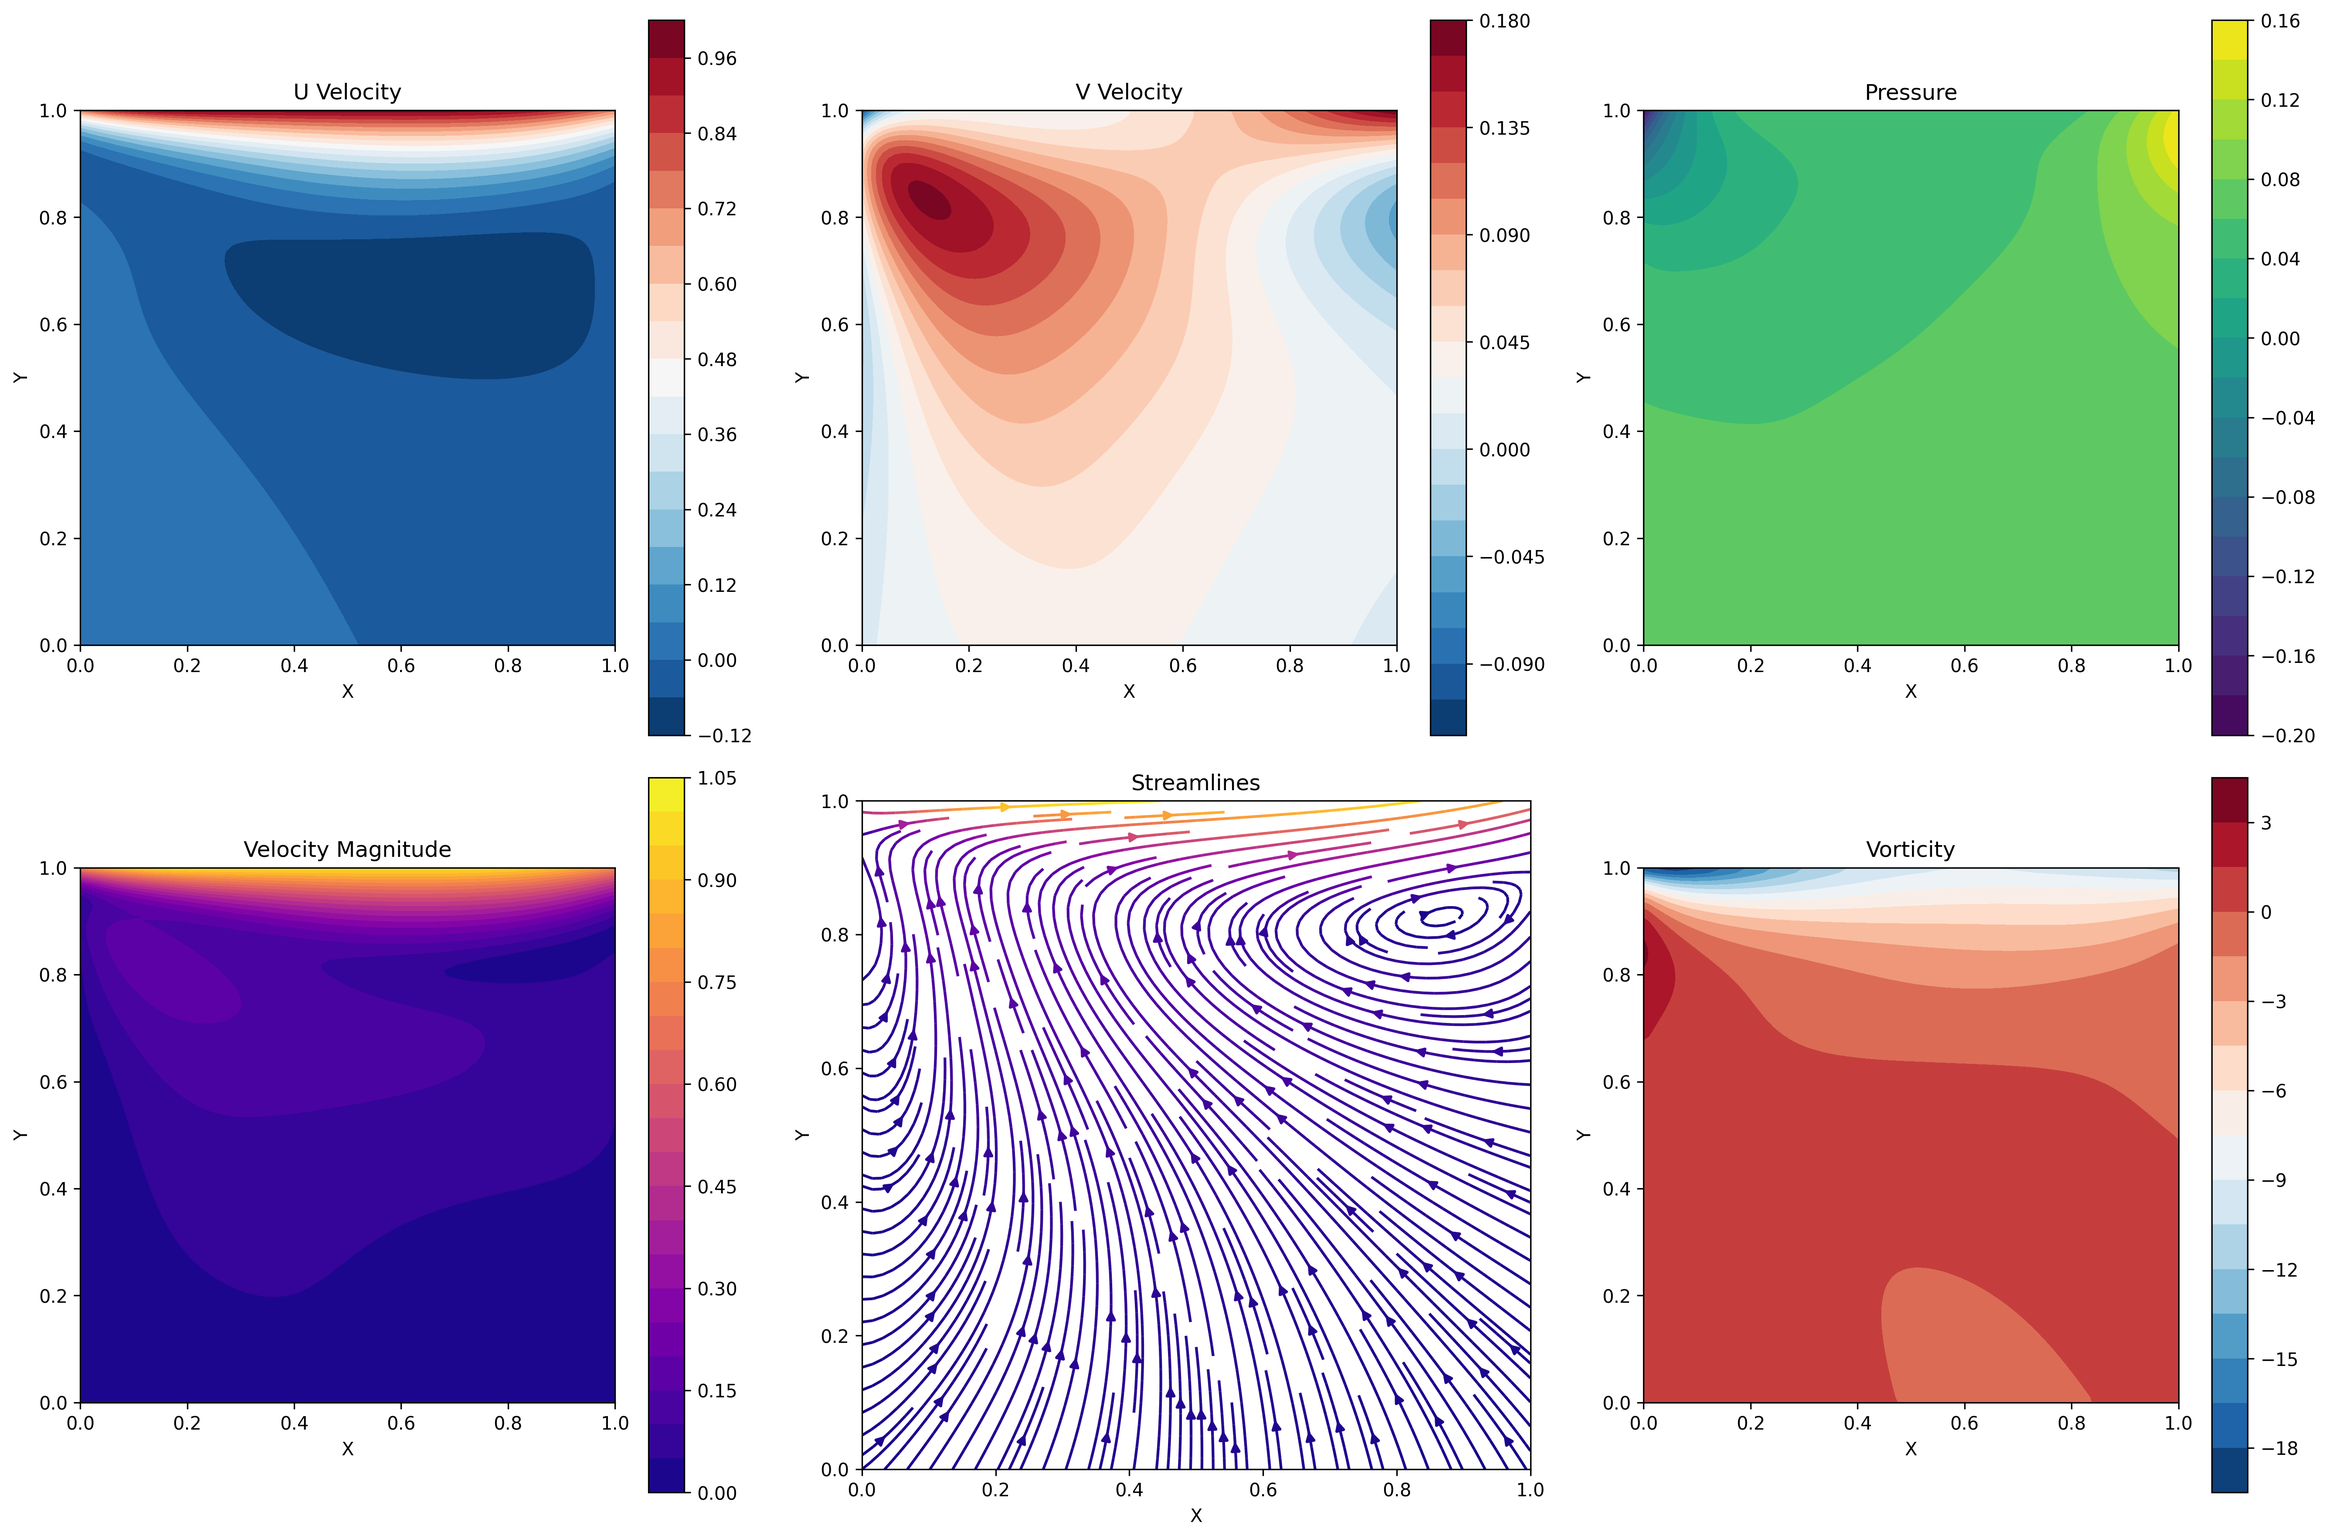
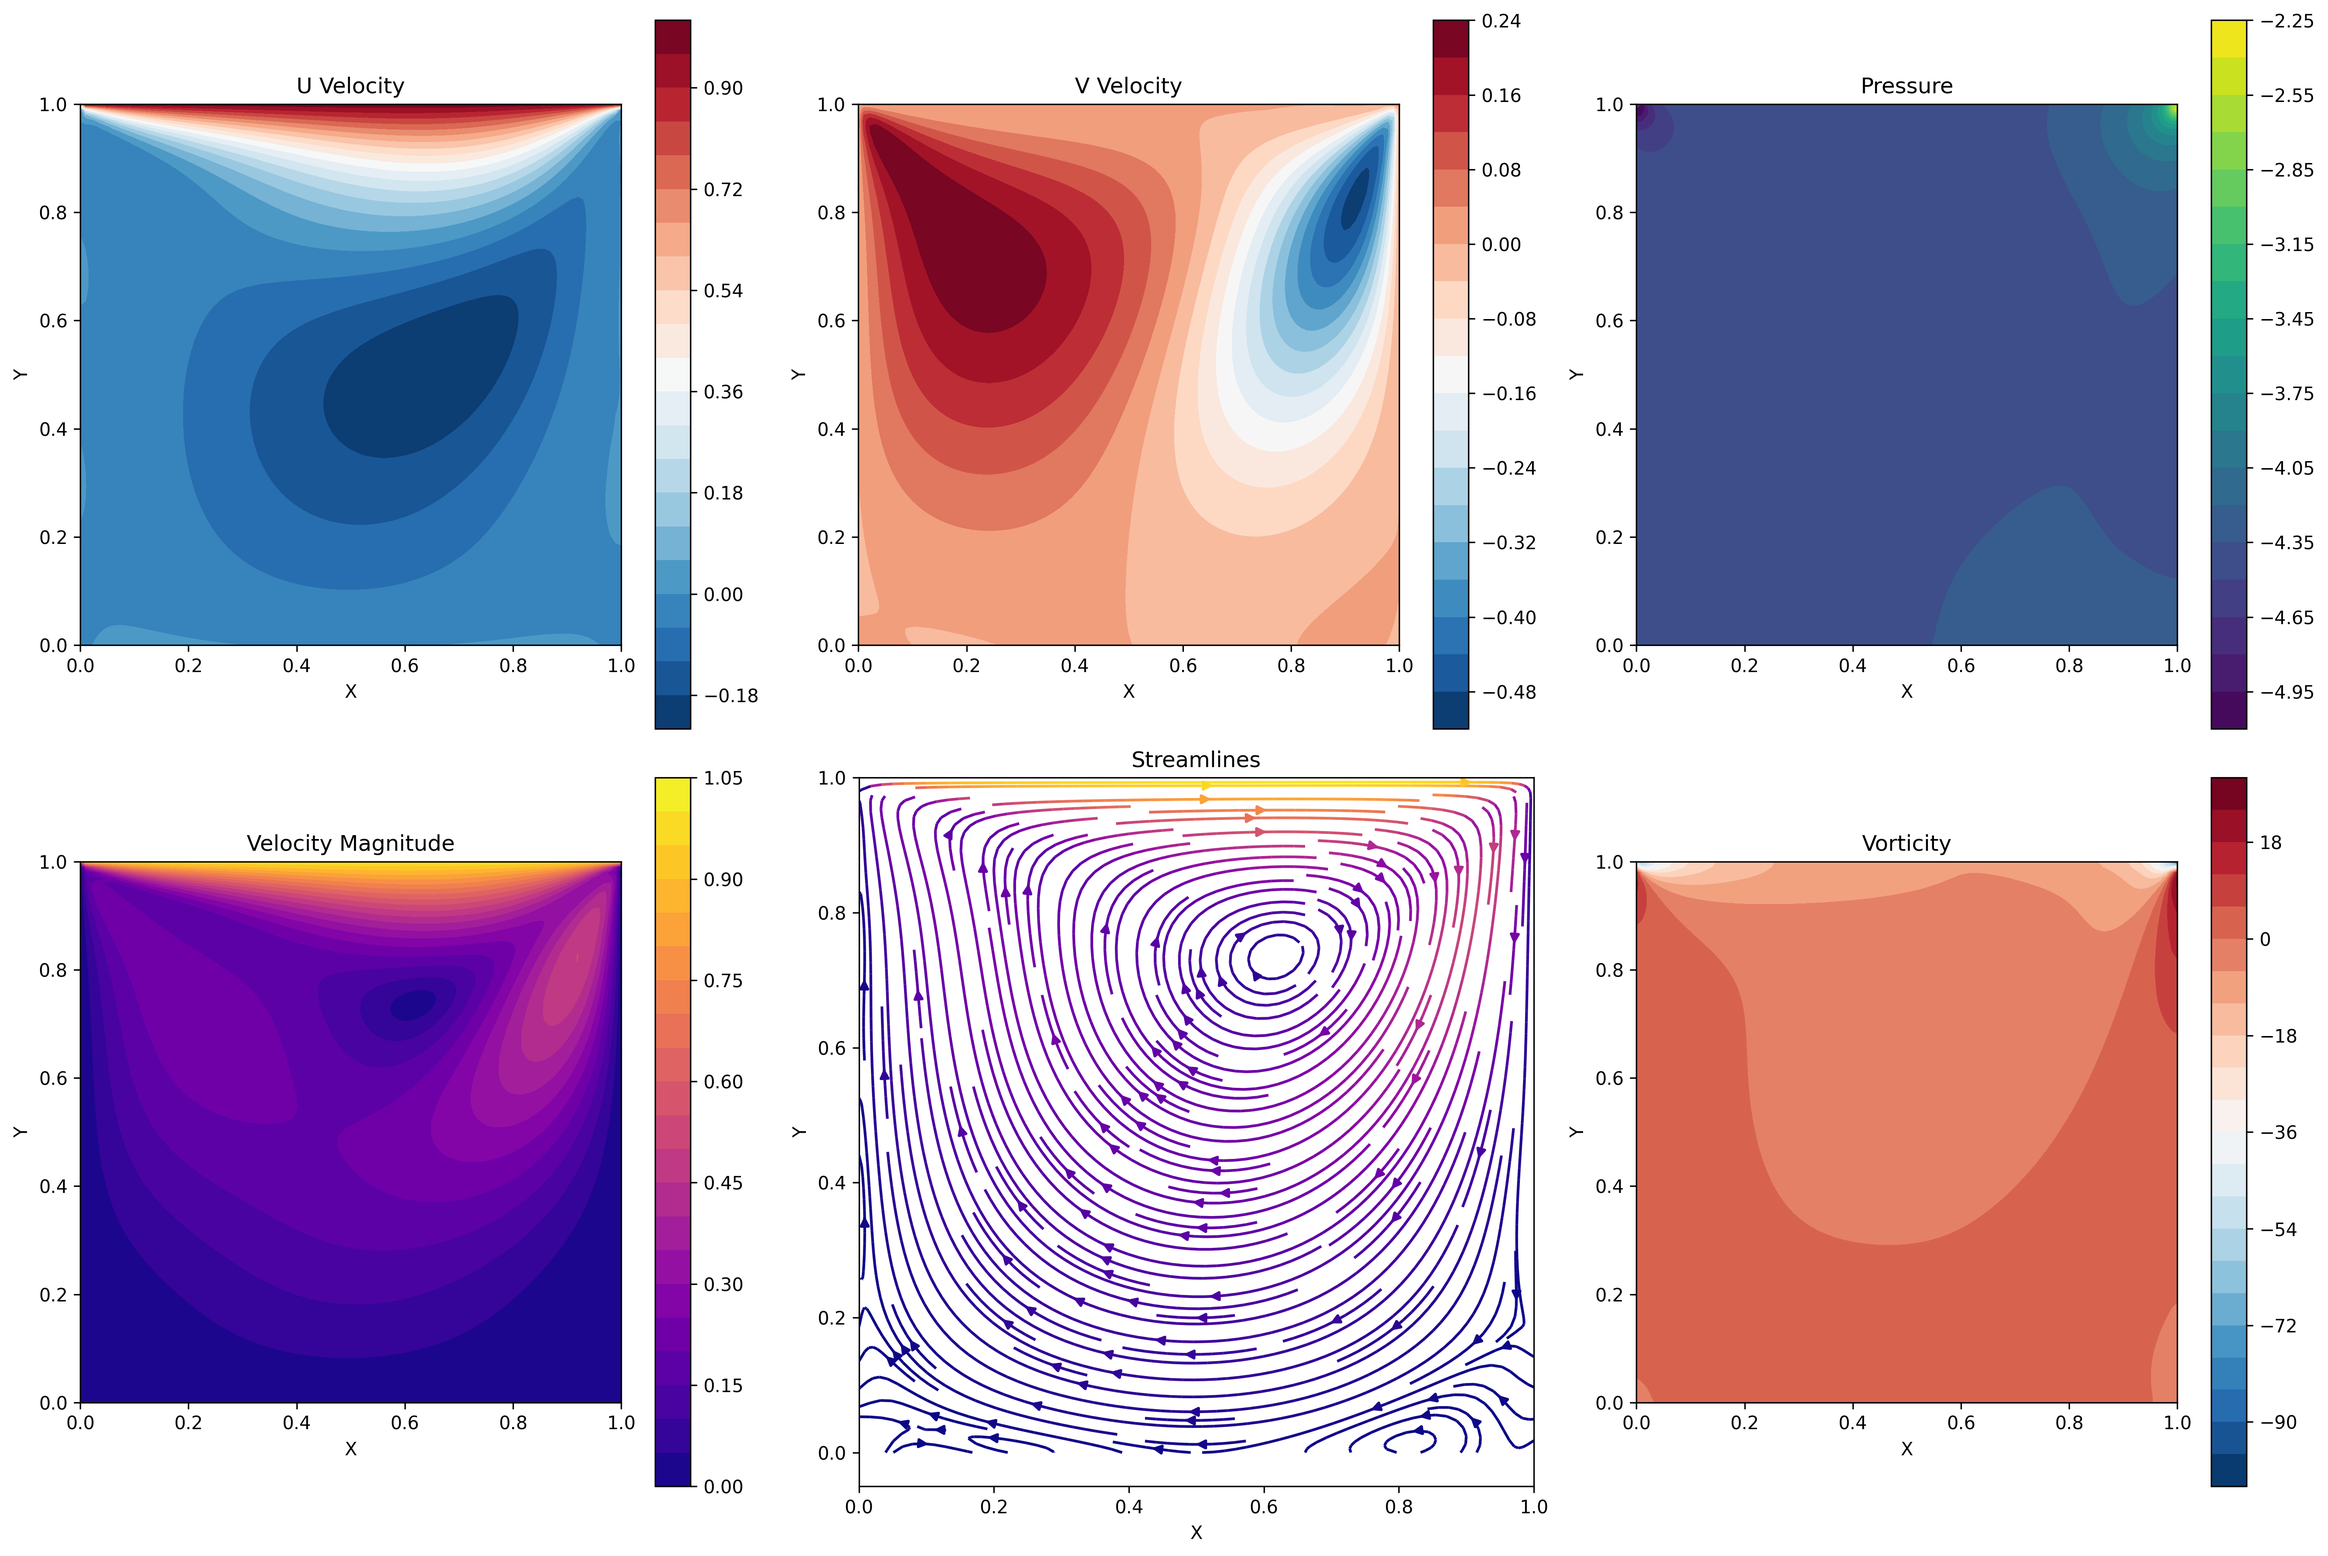
Completely trained PINN.

diff --git a/PINN/pinn_cavity.py b/PINN/pinn_cavity.py
@@ -80,7 +80,7 @@ def train_pinn():
     xy_f = torch.tensor(np.hstack((x_f,y_f)), dtype=torch.float32).to(device)
 
     # Boundary points (walls)
-    N_b = 500
+    N_b = 1250
     # top lid (u=1,v=0)
     x_top = np.random.rand(N_b,1)
     y_top = np.ones((N_b,1))
@@ -119,9 +119,10 @@ def train_pinn():
         'iterations': []
     }
 
-    # Training loop
-    max_iter = 5000
-    print(f"Starting training for {max_iter} iterations...")
+    # Phase 1: Adam optimizer training
+    max_iter = 50000
+    is_converged = False
+    print(f"Starting Adam training for {max_iter} iterations...")
     
     for it in range(max_iter):
         optimizer.zero_grad()
@@ -150,6 +151,71 @@ def train_pinn():
         if it % 500 == 0:
             print(f"Iter {it:4d}, Loss={loss.item():.4e}, PDE={loss_f.item():.4e}, BC={loss_b.item():.4e}")
 
+        if (loss_f < 1e-3 and loss_b < 1e-3) and (it > 25000):
+            print(f"Preliminarily converged at iteration {it}")
+            break
+
+        if (loss_f < 1e-7 and loss_b < 1e-7):
+            print(f"Converged at iteration {it}")
+            is_converged = True
+            break
+    
+    # Phase 2: L-BFGS optimizer training (if not converged)
+    if not is_converged:
+        print("\nSwitching to L-BFGS optimizer for fine-tuning...")
+        optimizer_lbfgs = torch.optim.LBFGS(net.parameters(), max_iter=10000, lr=1.0, history_size=50, tolerance_grad=1e-9)
+        
+        # Define closure function for L-BFGS
+        def closure():
+            optimizer_lbfgs.zero_grad()
+            f_cont, f_u, f_v = navier_stokes_residual(xy_f, net, nu)
+            loss_f = (f_cont**2).mean() + (f_u**2).mean() + (f_v**2).mean()
+            out_b = net(xy_b)
+            u_pred, v_pred = out_b[:,0:1], out_b[:,1:2]
+            loss_b = ((u_pred - u_b)**2).mean() + ((v_pred - v_b)**2).mean()
+            loss = loss_f + loss_b
+            loss.backward()
+            
+            # Store current losses for history tracking
+            closure.loss_f = loss_f.item()
+            closure.loss_b = loss_b.item()
+            closure.total_loss = loss.item()
+            
+            return loss
+        
+        # L-BFGS training loop
+        lbfgs_iter = 0
+        max_lbfgs_iter = 500
+        
+        for lbfgs_step in range(max_lbfgs_iter):
+            # Perform L-BFGS step
+            optimizer_lbfgs.step(closure)
+            
+            # Update iteration counter
+            current_iter = max_iter + lbfgs_step
+            
+            # Store training history every 10 iterations
+            if lbfgs_step % 5 == 0:
+                history['total_loss'].append(closure.total_loss)
+                history['pde_loss'].append(closure.loss_f)
+                history['bc_loss'].append(closure.loss_b)
+                history['iterations'].append(current_iter)
+            
+            # Print progress every 10 iterations
+            if lbfgs_step % 10 == 0:
+                print(f"L-BFGS Iter {lbfgs_step:4d}, Loss={closure.total_loss:.4e}, PDE={closure.loss_f:.4e}, BC={closure.loss_b:.4e}")
+            
+            # Check convergence
+            if (closure.loss_f < 1e-7 and closure.loss_b < 1e-7):
+                print(f"Converged at L-BFGS iteration {lbfgs_step}")
+                is_converged = True
+                break
+        
+        if is_converged:
+            print("Training converged successfully!")
+        else:
+            print("Training completed without full convergence.")
+    
     print("Training completed!")
     return net, history
 
@@ -158,7 +224,7 @@ def train_pinn():
 # Visualization Functions
 # -------------------------------
 
-def plot_training_history(history, save_dir="PINN/Result Plot"):
+def plot_training_history(history, save_dir="Result Plot"):
     """Plot training loss history"""
     os.makedirs(save_dir, exist_ok=True)
     
